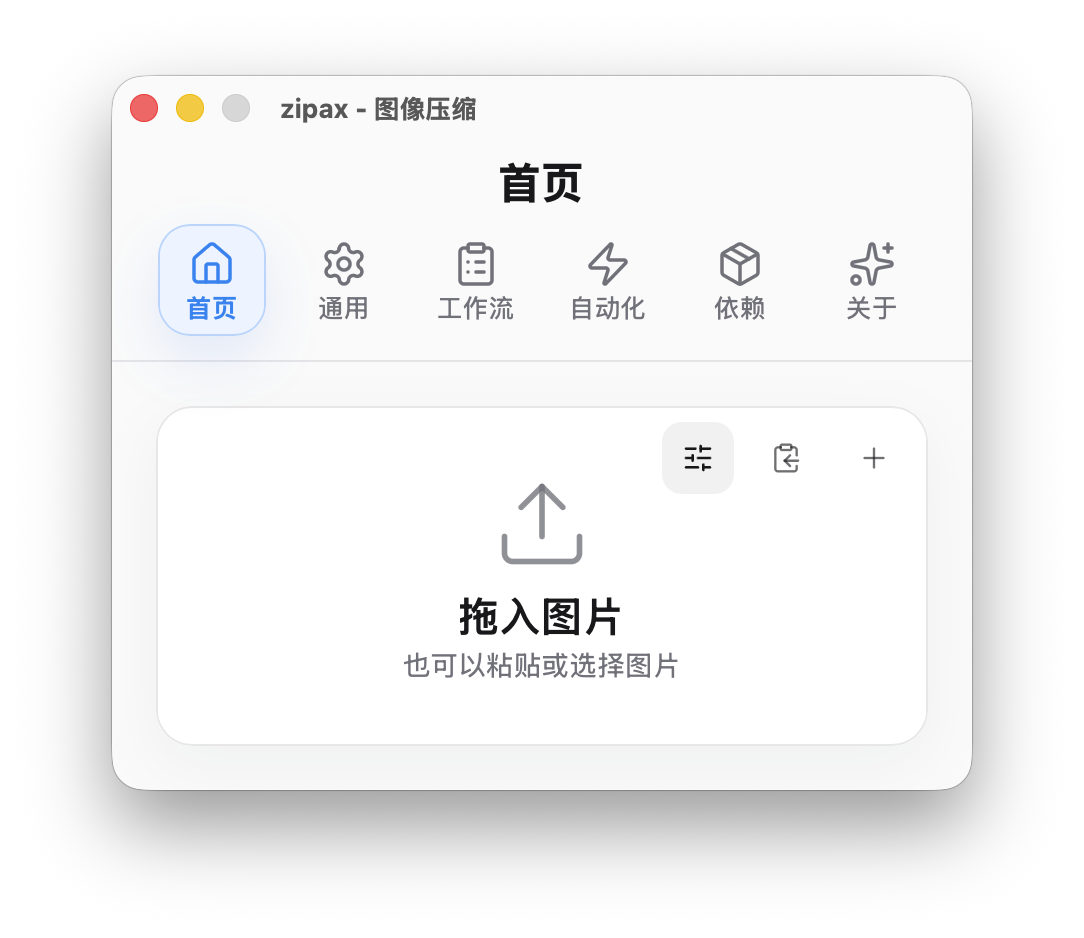
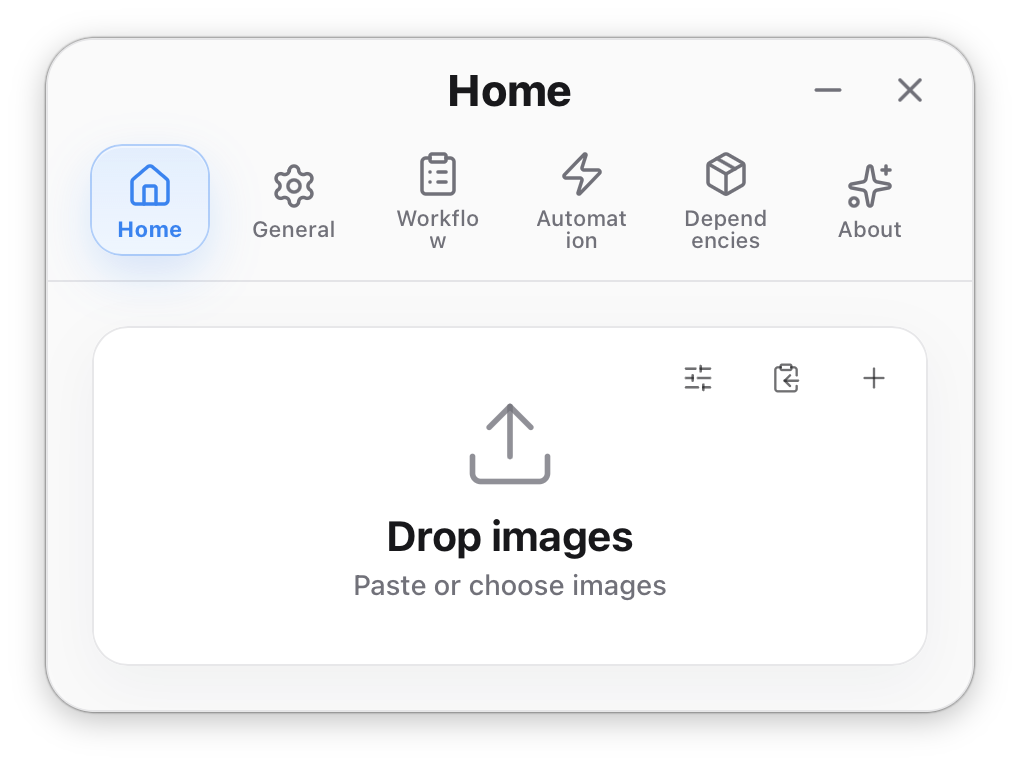
Update README with English screenshots and v0.24.0 notes

diff --git a/docs/prd-release-push-workflow.md b/docs/prd-release-push-workflow.md
@@ -1,0 +1,171 @@
+# PRD: zipax 发布推送流程
+
+## 目标
+
+建立一套标准化的 zipax 版本发布流程，涵盖从版本号更新到 GitHub Release 正式发布的完整路径。确保每次发布都包含正确的签名、构建产物和更新说明。
+
+## 用户
+
+- 开发者：执行版本发布操作。
+- 终端用户：通过 GitHub Release 下载安装包，或通过 Tauri updater 自动接收更新。
+
+## 前置条件
+
+| 条件 | 状态 | 说明 |
+|------|------|------|
+| GitHub 仓库 | 已配置 | `2716190547/zipax` |
+| 签名密钥 | 已配置 | `~/.tauri/zipax.key` |
+| GitHub Secrets | 已配置 | `TAURI_SIGNING_PRIVATE_KEY`、`TAURI_SIGNING_PRIVATE_KEY_PASSWORD` |
+| Release Workflow | 已配置 | `.github/workflows/release.yml` |
+| 本地工具链 | 需安装 | Node.js 20+、Rust stable、npm |
+
+### Secrets 配置方式
+
+```bash
+cat ~/.tauri/zipax.key | gh secret set TAURI_SIGNING_PRIVATE_KEY --repo 2716190547/zipax
+echo -n "zipax-update-key" | gh secret set TAURI_SIGNING_PRIVATE_KEY_PASSWORD --repo 2716190547/zipax
+gh secret list --repo 2716190547/zipax
+```
+
+## 发布流程
+
+```
+┌─────────────────────────────────────────────────────────────┐
+│  阶段 1: 版本号更新                                          │
+│  - package.json → version                                   │
+│  - Cargo.toml → workspace.package.version                   │
+│  - src-tauri/tauri.conf.json → version                      │
+│  - package-lock.json → version                              │
+│                                                             │
+│  版本号规则:                                                 │
+│    0.X.0  → 功能性更新（新特性、重构）                         │
+│    0.X.Y  → 补丁修复（bug 修复、小调整）                      │
+├─────────────────────────────────────────────────────────────┤
+│  阶段 2: 提交与推送                                          │
+│  git add -A                                                 │
+│  git commit -m "Bump version to X.Y.Z"                      │
+│  git push origin master                                     │
+├─────────────────────────────────────────────────────────────┤
+│  阶段 3: 打 Tag 并推送                                       │
+│  git tag vX.Y.Z                                             │
+│  git push origin vX.Y.Z                                     │
+│                                                             │
+│  ⚠️ Tag 一旦推送不可修改，务必确认版本号正确                    │
+├─────────────────────────────────────────────────────────────┤
+│  阶段 4: GitHub Actions 自动构建                              │
+│  触发条件: 推送 v* 格式的 tag                                  │
+│                                                             │
+│  Workflow 执行:                                              │
+│  ├─ Checkout 代码                                            │
+│  ├─ Setup Node.js 20 + Rust stable                          │
+│  ├─ npm ci 安装依赖                                          │
+│  ├─ npm run build 构建前端                                    │
+│  ├─ tauri-action 构建 Tauri 应用                              │
+│  │   ├─ 编译 Rust binary                                    │
+│  │   ├─ 打包 .app / .msi / .AppImage                        │
+│  │   ├─ 用 TAURI_SIGNING_PRIVATE_KEY 签名                   │
+│  │   ├─ 生成 latest.json (updater manifest)                 │
+│  │   └─ 创建 GitHub Release (Draft)                         │
+│  └─ 上传 updater artifacts                                  │
+│                                                             │
+│  产物:                                                      │
+│  ├─ zipax_aarch64.app.tar.gz + .sig (macOS updater)        │
+│  ├─ zipax_0.X.Y_aarch64.dmg (macOS 安装包)                 │
+│  ├─ zipax_0.X.Y_x64-setup.exe + .sig (Windows)             │
+│  ├─ zipax_0.X.Y_x64_en-US.msi + .sig (Windows)             │
+│  ├─ zipax_0.X.Y_amd64.deb + .sig (Linux)                   │
+│  ├─ zipax_0.X.Y_amd64.AppImage + .sig (Linux)              │
+│  └─ latest.json (updater 清单)                               │
+├─────────────────────────────────────────────────────────────┤
+│  阶段 5: 发布 Draft Release                                  │
+│  gh release edit vX.Y.Z -F RELEASE_NOTES.md --draft=false  │
+│                                                             │
+│  或手动在 GitHub 页面编辑 Draft → Publish release            │
+└─────────────────────────────────────────────────────────────┘
+```
+
+## 阶段详细说明
+
+### 阶段 1: 版本号更新
+
+需同步更新以下 4 个文件，确保版本一致：
+
+| 文件 | 字段 | 示例 |
+|------|------|------|
+| `package.json` | `"version"` | `"0.24.0"` |
+| `Cargo.toml` | `workspace.package.version` | `version = "0.24.0"` |
+| `src-tauri/tauri.conf.json` | `"version"` | `"0.24.0"` |
+| `package-lock.json` | `"version"` (两处) | `"0.24.0"` |
+
+### 阶段 2: 提交
+
+```bash
+git add -A
+git commit -m "Bump version to X.Y.Z"
+git push origin master
+```
+
+### 阶段 3: 打 Tag
+
+```bash
+git tag vX.Y.Z
+git push origin vX.Y.Z
+```
+
+### 阶段 4: 自动构建
+
+推送 tag 后 GitHub Actions 自动触发，无需手动干预。
+
+查看构建状态：
+```bash
+gh run list --repo 2716190547/zipax --limit 5
+gh run watch <run-id> --repo 2716190547/zipax
+```
+
+### 阶段 5: 发布 Release
+
+```bash
+gh release edit vX.Y.Z --repo 2716190547/zipax -F RELEASE_NOTES.md --draft=false
+```
+
+发布后自动更新器即可检测到新版本。
+
+## 本地验证（发布前）
+
+在打 Tag 之前，可通过本地构建确认构建产物正常：
+
+```bash
+npm run build:install:open
+```
+
+此脚本自动执行：停止旧进程 → 构建前端 → Tauri 构建 → 安装到 ~/Applications → 打开应用。
+
+## 历史版本参考
+
+| 版本 | 类型 | Tag |
+|------|------|-----|
+| v0.24.0 | 重构发布 | `v0.24.0` |
+| v0.23.1 | 补丁修复 | `v0.23.1` |
+| v0.22 | 开源发布 | `v0.22` |
+| v0.2.1 | 功能更新 | `v0.2.1` |
+| v0.2.0 | 初始版本 | `v0.2.0` |
+
+## 已知风险与注意事项
+
+| 风险 | 影响 | 缓解措施 |
+|------|------|---------|
+| 签名密钥缺失 | 构建失败，无法生成 updater 产物 | 确认 GitHub Secrets 已配置 |
+| 版本号不一致 | 自动更新可能出错 | 严格同步 4 个文件 |
+| Tag 推错版本 | 无法撤回，需重新打 Tag | 推送前确认版本号 |
+| HTTPS 连接超时 | 推送到 GitHub 失败 | 切换为 SSH remote (`[email redacted]:2716190547/zipax.git`) |
+| macOS Only | Windows/Linux 构建未启用 | 后续可取消注释 workflow matrix |
+
+## 验收标准
+
+- [ ] 版本号在 4 个配置文件中一致
+- [ ] `git push origin master` 成功
+- [ ] `git tag vX.Y.Z` 和 `git push origin vX.Y.Z` 成功
+- [ ] GitHub Actions 构建成功 (绿色)
+- [ ] Draft Release 创建成功，包含所有平台产物
+- [ ] `latest.json` 包含正确的版本和下载链接
+- [ ] Release 正式发布后，自动更新器可检测到新版本